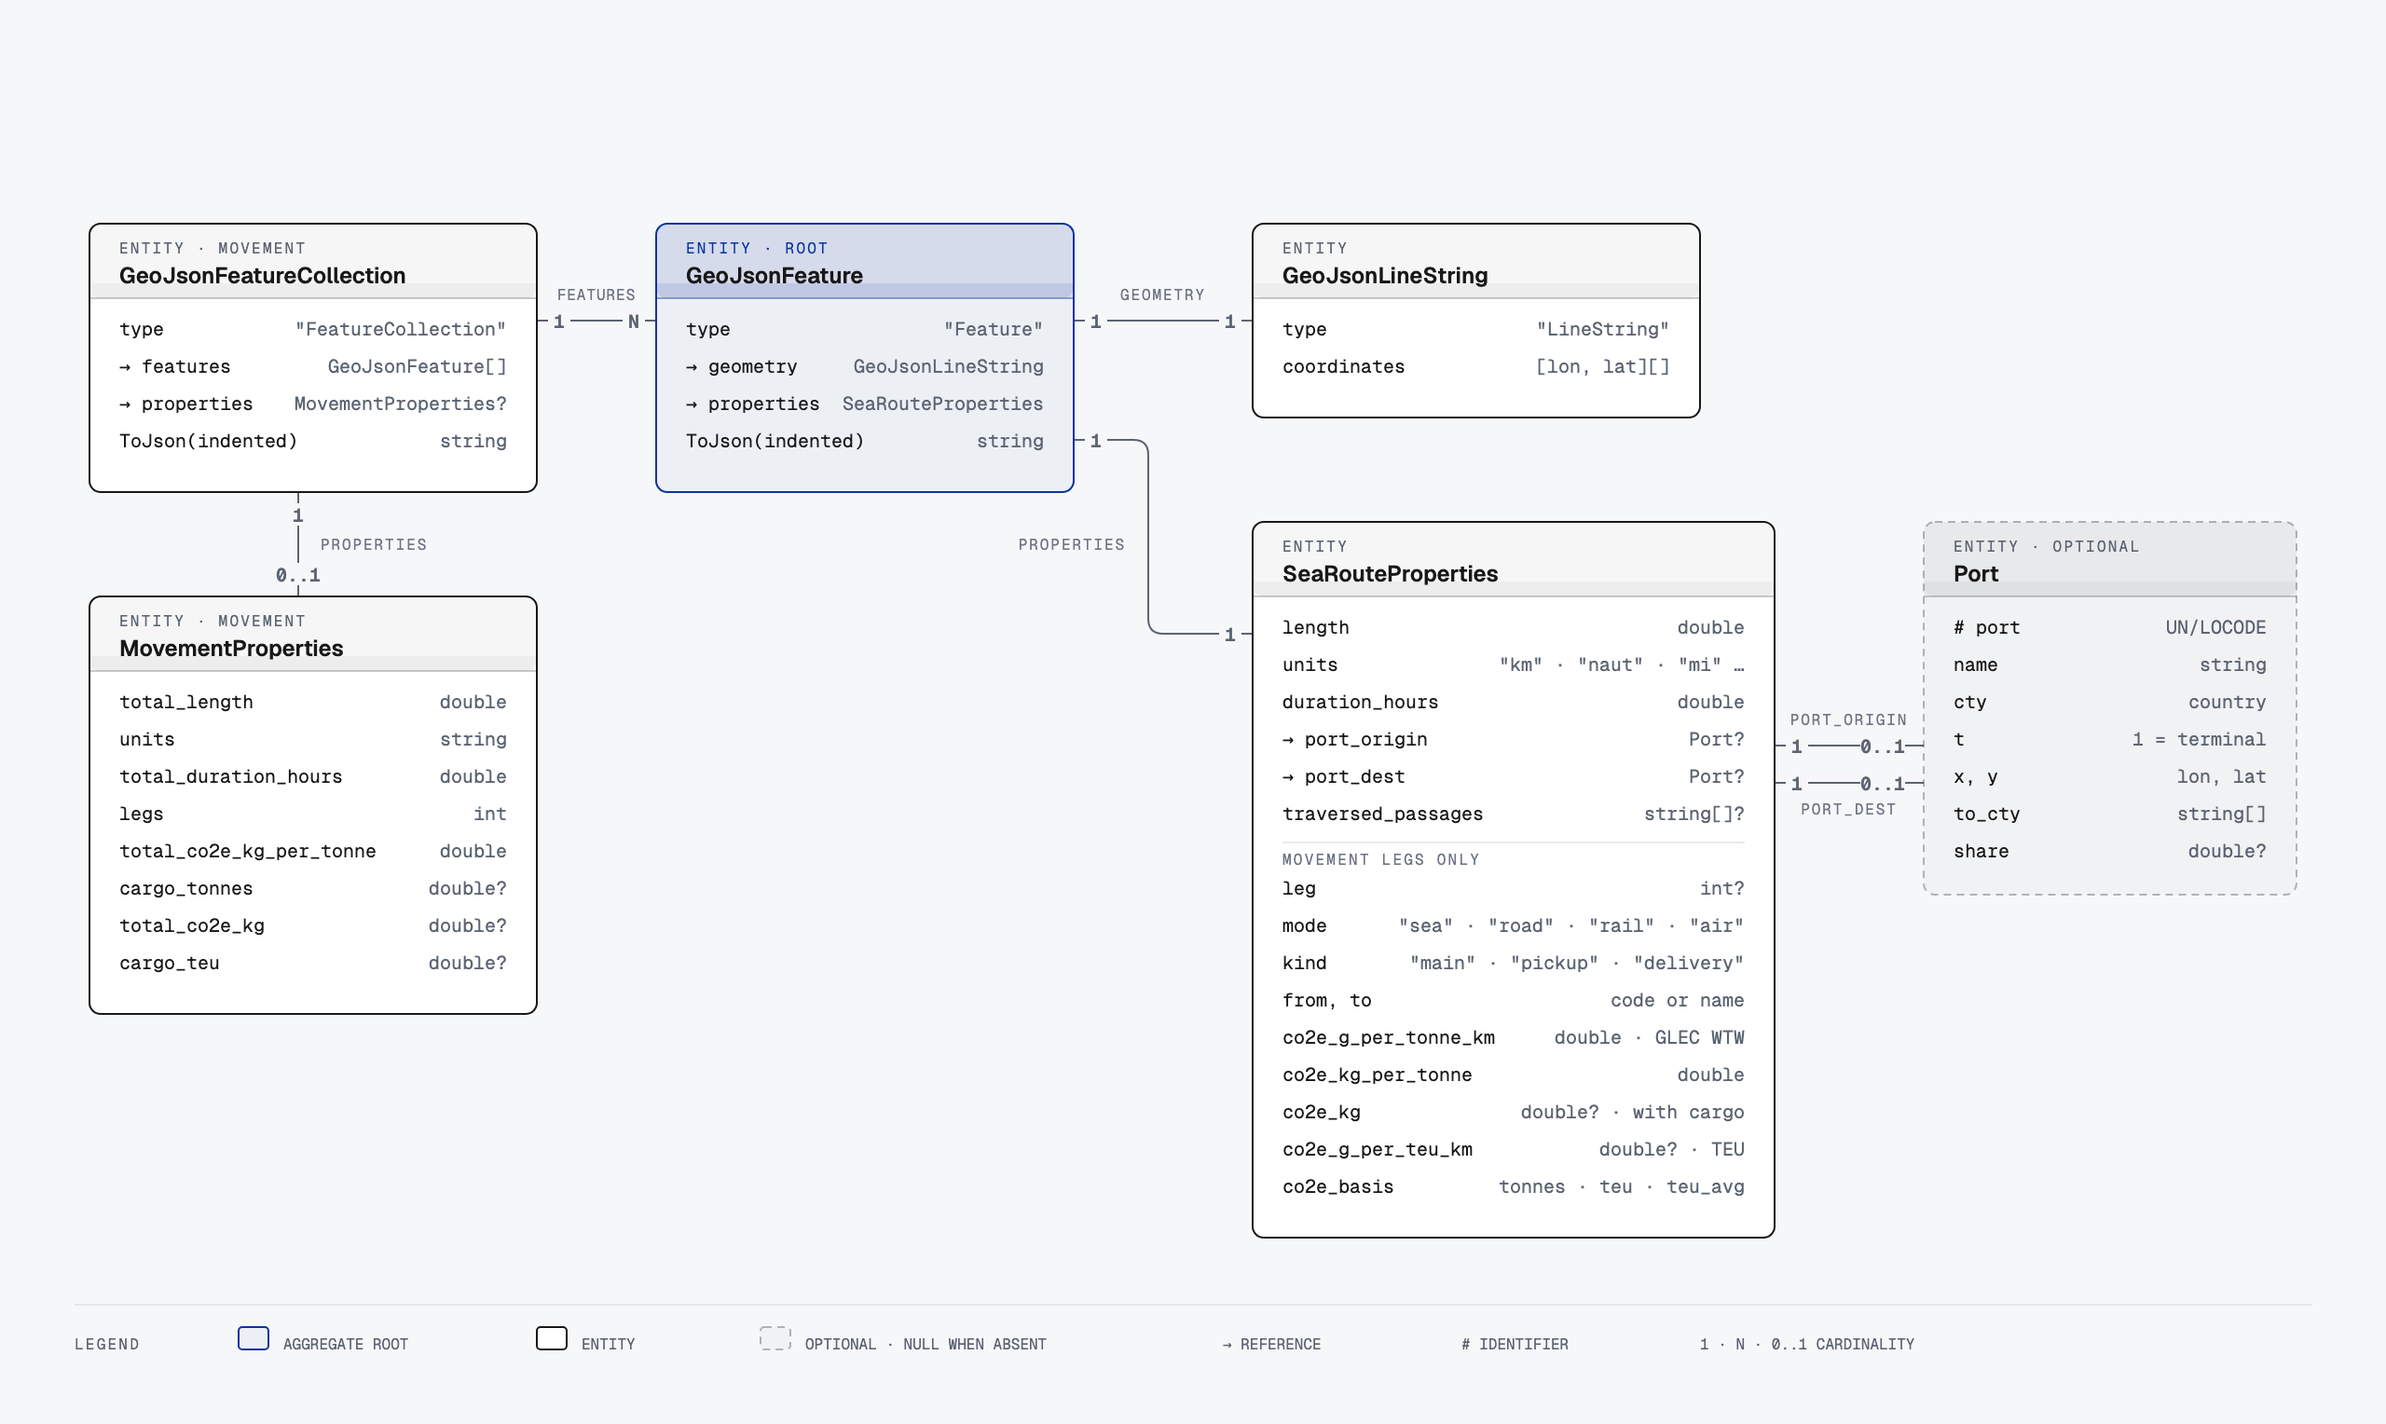
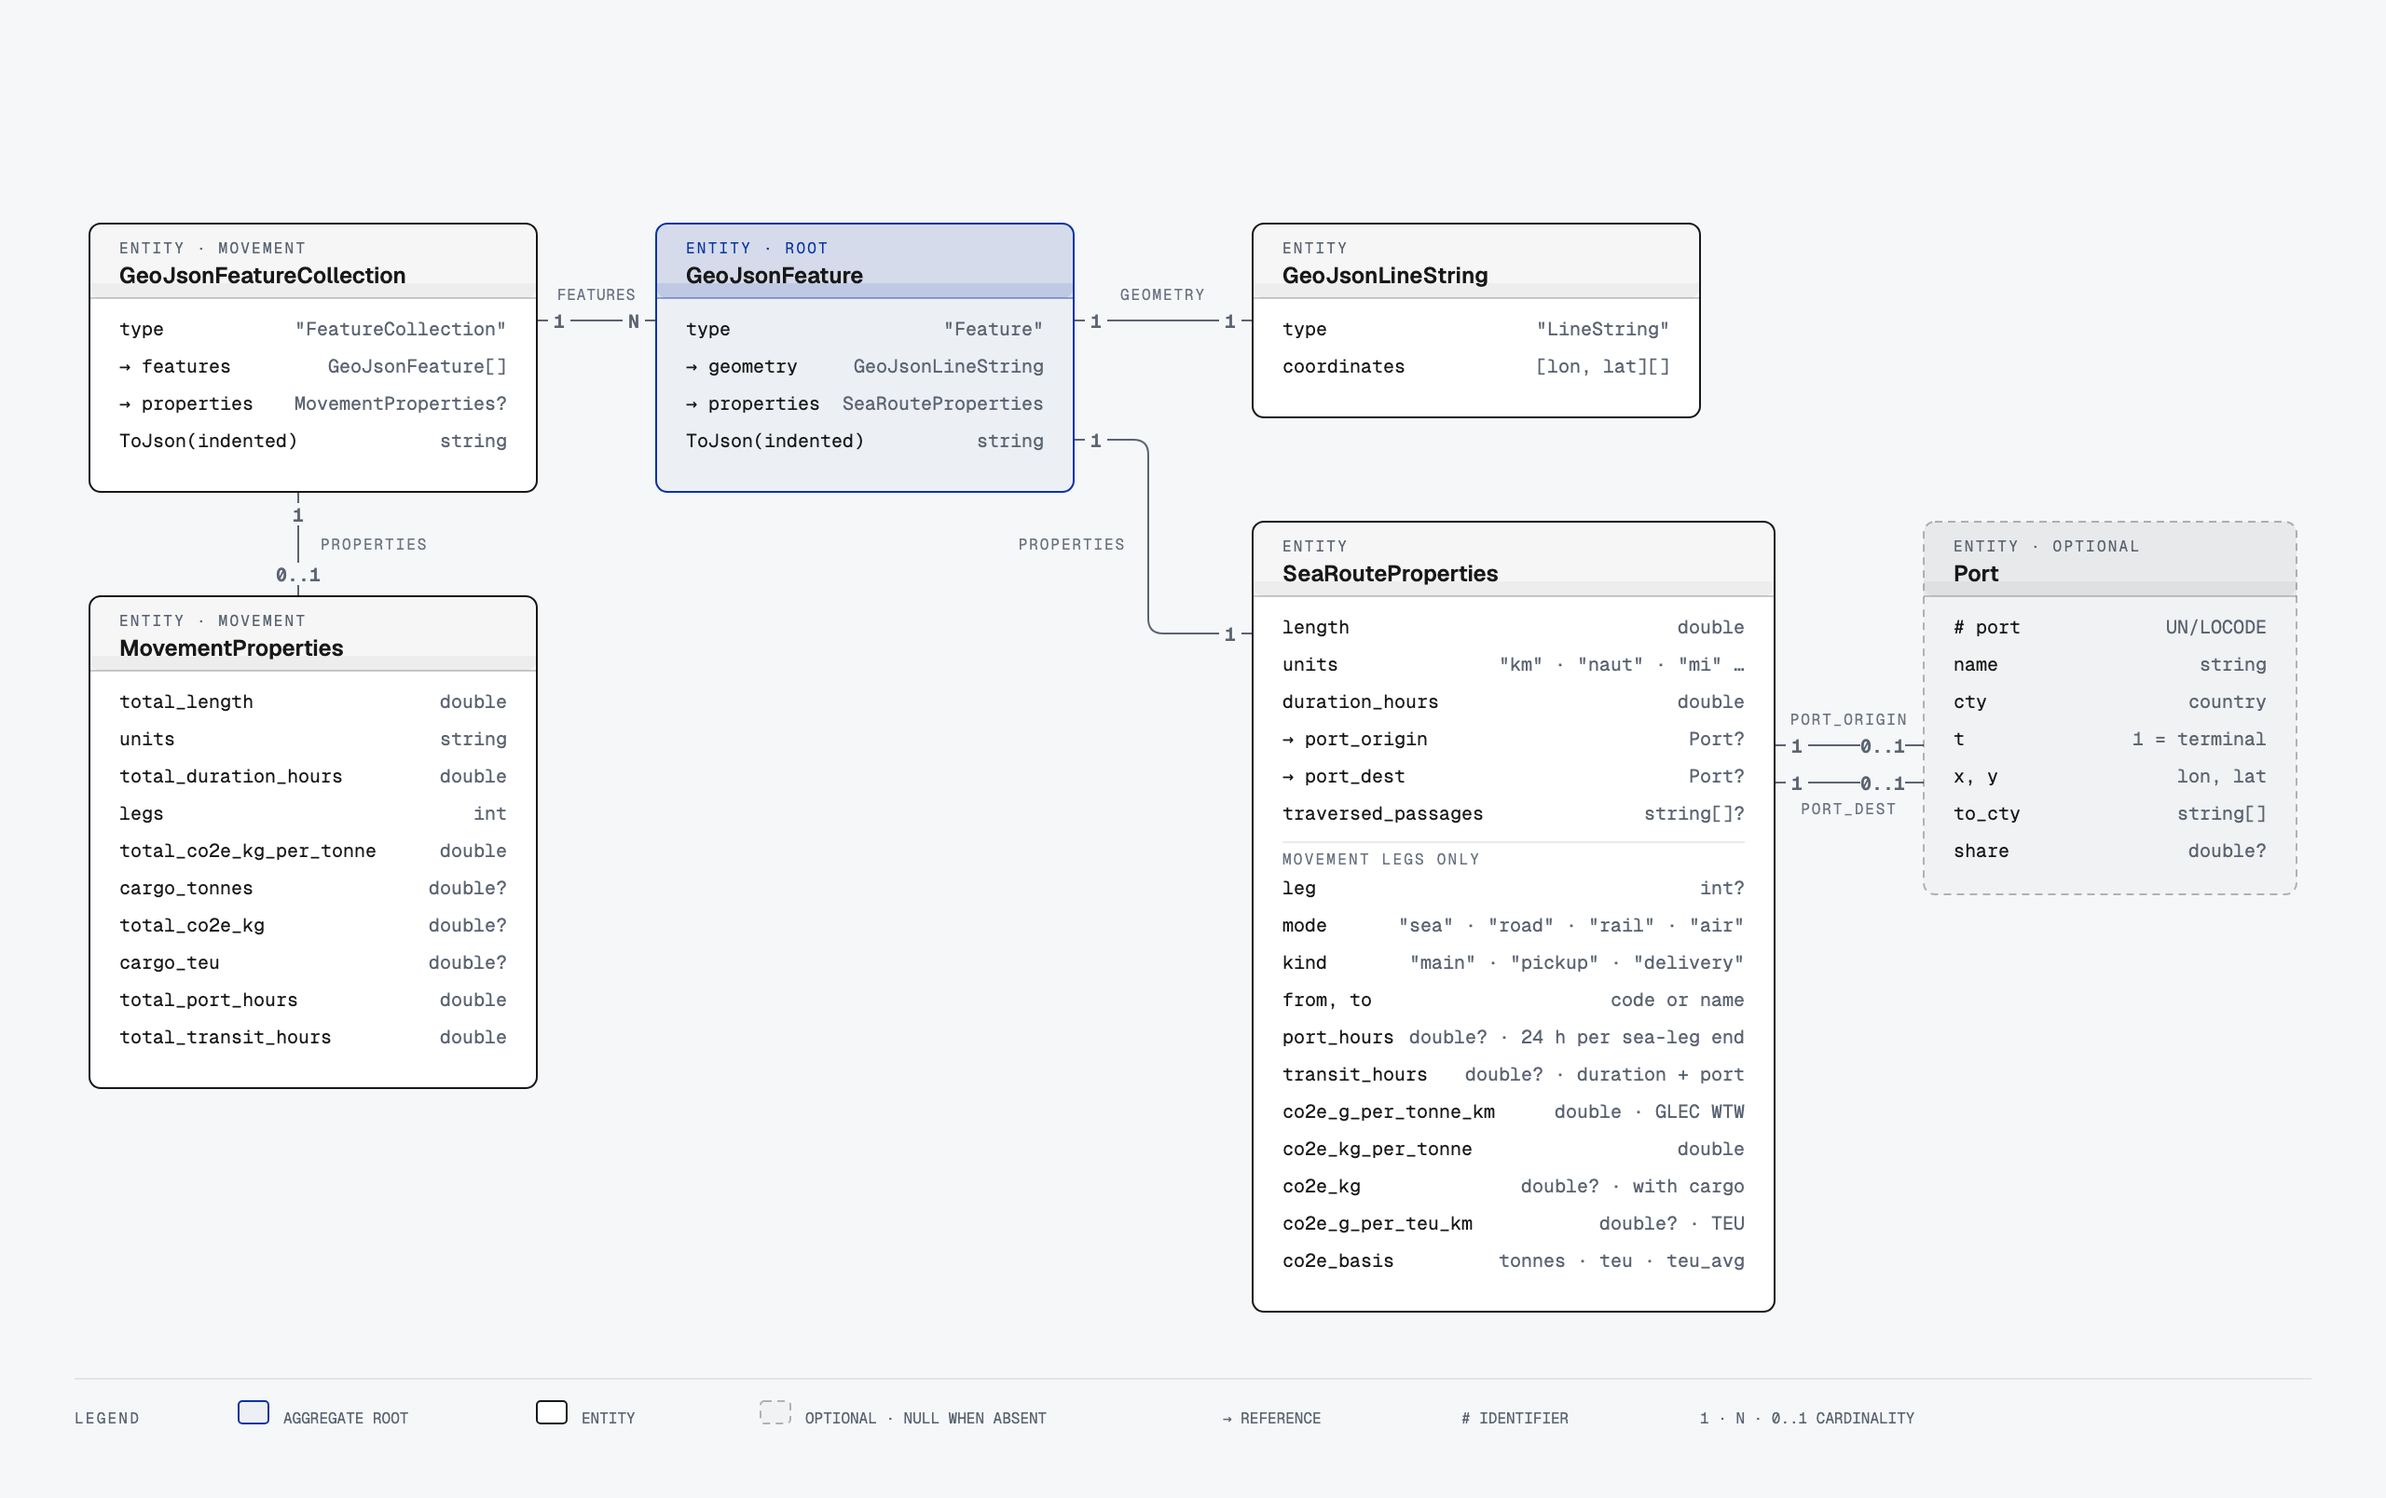
ER diagram: add port_hours, transit_hours and the transit totals

diff --git a/docs/diagrams/output-model.html b/docs/diagrams/output-model.html
@@ -53,9 +53,9 @@
     <p class="eyebrow">ER · SeaRoute.Net</p>
     <h1>What a route or movement returns</h1>
 
-    <svg viewBox="0 0 1280 764" xmlns="http://www.w3.org/2000/svg" role="img" aria-labelledby="output-model-title output-model-desc">
+    <svg viewBox="0 0 1280 804" xmlns="http://www.w3.org/2000/svg" role="img" aria-labelledby="output-model-title output-model-desc">
       <title id="output-model-title">SeaRoute.Net output model</title>
-      <desc id="output-model-desc">Entity-relationship diagram of SeaRoute.Net output: a single route is a GeoJsonFeature holding a LineString geometry and SeaRouteProperties with length, units, duration, passages, optional origin and destination ports and, for movement legs, leg number, mode, kind, from, to and CO2e figures; a movement is a GeoJsonFeatureCollection of leg features with MovementProperties totals including CO2e.</desc>
+      <desc id="output-model-desc">Entity-relationship diagram of SeaRoute.Net output: a single route is a GeoJsonFeature holding a LineString geometry and SeaRouteProperties with length, units, duration, passages, optional origin and destination ports and, for movement legs, leg number, mode, kind, from, to, port and transit hours and CO2e figures; a movement is a GeoJsonFeatureCollection of leg features with MovementProperties totals including transit hours and CO2e.</desc>
       <defs>
         <marker id="arrow" markerWidth="8" markerHeight="6" refX="7" refY="3" orient="auto"><polygon points="0 0, 8 3, 0 6" fill="#5b6472"/></marker>
       </defs>
@@ -139,8 +139,8 @@
       <text x="272" y="240" fill="#5b6472" font-size="10" font-family="'Geist Mono', monospace" text-anchor="end">string</text>
 
       <!-- Entity: MovementProperties -->
-      <rect x="48" y="320" width="240" height="224" rx="6" fill="#f6f7f8"/>
-      <rect x="48" y="320" width="240" height="224" rx="6" fill="#ffffff" stroke="#181818" stroke-width="1"/>
+      <rect x="48" y="320" width="240" height="264" rx="6" fill="#f6f7f8"/>
+      <rect x="48" y="320" width="240" height="264" rx="6" fill="#ffffff" stroke="#181818" stroke-width="1"/>
       <rect x="48" y="320" width="240" height="40" rx="6" fill="rgba(24,24,24,0.04)" stroke="none"/>
       <rect x="48" y="352" width="240" height="8" fill="rgba(24,24,24,0.04)"/>
       <line x1="48" y1="360" x2="288" y2="360" stroke="rgba(24,24,24,0.22)" stroke-width="1"/>
@@ -162,6 +162,10 @@
       <text x="272" y="500" fill="#5b6472" font-size="10" font-family="'Geist Mono', monospace" text-anchor="end">double?</text>
       <text x="64" y="520" fill="#181818" font-size="10" font-family="'Geist Mono', monospace">cargo_teu</text>
       <text x="272" y="520" fill="#5b6472" font-size="10" font-family="'Geist Mono', monospace" text-anchor="end">double?</text>
+      <text x="64" y="540" fill="#181818" font-size="10" font-family="'Geist Mono', monospace">total_port_hours</text>
+      <text x="272" y="540" fill="#5b6472" font-size="10" font-family="'Geist Mono', monospace" text-anchor="end">double</text>
+      <text x="64" y="560" fill="#181818" font-size="10" font-family="'Geist Mono', monospace">total_transit_hours</text>
+      <text x="272" y="560" fill="#5b6472" font-size="10" font-family="'Geist Mono', monospace" text-anchor="end">double</text>
 
       <!-- Entity: GeoJsonFeature (focal, aggregate root) -->
       <rect x="352" y="120" width="224" height="144" rx="6" fill="#f6f7f8"/>
@@ -194,8 +198,8 @@
       <text x="896" y="200" fill="#5b6472" font-size="10" font-family="'Geist Mono', monospace" text-anchor="end">[lon, lat][]</text>
 
       <!-- Entity: SeaRouteProperties -->
-      <rect x="672" y="280" width="280" height="384" rx="6" fill="#f6f7f8"/>
-      <rect x="672" y="280" width="280" height="384" rx="6" fill="#ffffff" stroke="#181818" stroke-width="1"/>
+      <rect x="672" y="280" width="280" height="424" rx="6" fill="#f6f7f8"/>
+      <rect x="672" y="280" width="280" height="424" rx="6" fill="#ffffff" stroke="#181818" stroke-width="1"/>
       <rect x="672" y="280" width="280" height="40" rx="6" fill="rgba(24,24,24,0.04)" stroke="none"/>
       <rect x="672" y="312" width="280" height="8" fill="rgba(24,24,24,0.04)"/>
       <line x1="672" y1="320" x2="952" y2="320" stroke="rgba(24,24,24,0.22)" stroke-width="1"/>
@@ -223,16 +227,20 @@
       <text x="936" y="520" fill="#5b6472" font-size="10" font-family="'Geist Mono', monospace" text-anchor="end">"main" · "pickup" · "delivery"</text>
       <text x="688" y="540" fill="#181818" font-size="10" font-family="'Geist Mono', monospace">from, to</text>
       <text x="936" y="540" fill="#5b6472" font-size="10" font-family="'Geist Mono', monospace" text-anchor="end">code or name</text>
-      <text x="688" y="560" fill="#181818" font-size="10" font-family="'Geist Mono', monospace">co2e_g_per_tonne_km</text>
-      <text x="936" y="560" fill="#5b6472" font-size="10" font-family="'Geist Mono', monospace" text-anchor="end">double · GLEC WTW</text>
-      <text x="688" y="580" fill="#181818" font-size="10" font-family="'Geist Mono', monospace">co2e_kg_per_tonne</text>
-      <text x="936" y="580" fill="#5b6472" font-size="10" font-family="'Geist Mono', monospace" text-anchor="end">double</text>
-      <text x="688" y="600" fill="#181818" font-size="10" font-family="'Geist Mono', monospace">co2e_kg</text>
-      <text x="936" y="600" fill="#5b6472" font-size="10" font-family="'Geist Mono', monospace" text-anchor="end">double? · with cargo</text>
-      <text x="688" y="620" fill="#181818" font-size="10" font-family="'Geist Mono', monospace">co2e_g_per_teu_km</text>
-      <text x="936" y="620" fill="#5b6472" font-size="10" font-family="'Geist Mono', monospace" text-anchor="end">double? · TEU</text>
-      <text x="688" y="640" fill="#181818" font-size="10" font-family="'Geist Mono', monospace">co2e_basis</text>
-      <text x="936" y="640" fill="#5b6472" font-size="10" font-family="'Geist Mono', monospace" text-anchor="end">tonnes · teu · teu_avg</text>
+      <text x="688" y="560" fill="#181818" font-size="10" font-family="'Geist Mono', monospace">port_hours</text>
+      <text x="936" y="560" fill="#5b6472" font-size="10" font-family="'Geist Mono', monospace" text-anchor="end">double? · 24 h per sea-leg end</text>
+      <text x="688" y="580" fill="#181818" font-size="10" font-family="'Geist Mono', monospace">transit_hours</text>
+      <text x="936" y="580" fill="#5b6472" font-size="10" font-family="'Geist Mono', monospace" text-anchor="end">double? · duration + port</text>
+      <text x="688" y="600" fill="#181818" font-size="10" font-family="'Geist Mono', monospace">co2e_g_per_tonne_km</text>
+      <text x="936" y="600" fill="#5b6472" font-size="10" font-family="'Geist Mono', monospace" text-anchor="end">double · GLEC WTW</text>
+      <text x="688" y="620" fill="#181818" font-size="10" font-family="'Geist Mono', monospace">co2e_kg_per_tonne</text>
+      <text x="936" y="620" fill="#5b6472" font-size="10" font-family="'Geist Mono', monospace" text-anchor="end">double</text>
+      <text x="688" y="640" fill="#181818" font-size="10" font-family="'Geist Mono', monospace">co2e_kg</text>
+      <text x="936" y="640" fill="#5b6472" font-size="10" font-family="'Geist Mono', monospace" text-anchor="end">double? · with cargo</text>
+      <text x="688" y="660" fill="#181818" font-size="10" font-family="'Geist Mono', monospace">co2e_g_per_teu_km</text>
+      <text x="936" y="660" fill="#5b6472" font-size="10" font-family="'Geist Mono', monospace" text-anchor="end">double? · TEU</text>
+      <text x="688" y="680" fill="#181818" font-size="10" font-family="'Geist Mono', monospace">co2e_basis</text>
+      <text x="936" y="680" fill="#5b6472" font-size="10" font-family="'Geist Mono', monospace" text-anchor="end">tonnes · teu · teu_avg</text>
 
       <!-- Entity: Port (optional, present only when ports are resolved) -->
       <rect x="1032" y="280" width="200" height="200" rx="6" fill="#f6f7f8"/>
@@ -258,17 +266,17 @@
       <text x="1216" y="460" fill="#5b6472" font-size="10" font-family="'Geist Mono', monospace" text-anchor="end">double?</text>
 
       <!-- Legend strip -->
-      <line x1="40" y1="700" x2="1240" y2="700" stroke="rgba(24,24,24,0.10)" stroke-width="0.8"/>
-      <text x="40" y="724" fill="#5b6472" font-size="8" font-family="'Geist Mono', monospace" letter-spacing="0.14em">LEGEND</text>
-      <rect x="128" y="712" width="16" height="12" rx="2" fill="rgba(10,52,161,0.04)" stroke="#0a34a1" stroke-width="1"/>
-      <text x="152" y="724" fill="#5b6472" font-size="8" font-family="'Geist Mono', monospace">AGGREGATE ROOT</text>
-      <rect x="288" y="712" width="16" height="12" rx="2" fill="#ffffff" stroke="#181818" stroke-width="1"/>
-      <text x="312" y="724" fill="#5b6472" font-size="8" font-family="'Geist Mono', monospace">ENTITY</text>
-      <rect x="408" y="712" width="16" height="12" rx="2" fill="rgba(24,24,24,0.02)" stroke="rgba(24,24,24,0.30)" stroke-width="1" stroke-dasharray="4,3"/>
-      <text x="432" y="724" fill="#5b6472" font-size="8" font-family="'Geist Mono', monospace">OPTIONAL · NULL WHEN ABSENT</text>
-      <text x="656" y="724" fill="#5b6472" font-size="8" font-family="'Geist Mono', monospace">→ REFERENCE</text>
-      <text x="784" y="724" fill="#5b6472" font-size="8" font-family="'Geist Mono', monospace"># IDENTIFIER</text>
-      <text x="912" y="724" fill="#5b6472" font-size="8" font-family="'Geist Mono', monospace">1 · N · 0..1 CARDINALITY</text>
+      <line x1="40" y1="740" x2="1240" y2="740" stroke="rgba(24,24,24,0.10)" stroke-width="0.8"/>
+      <text x="40" y="764" fill="#5b6472" font-size="8" font-family="'Geist Mono', monospace" letter-spacing="0.14em">LEGEND</text>
+      <rect x="128" y="752" width="16" height="12" rx="2" fill="rgba(10,52,161,0.04)" stroke="#0a34a1" stroke-width="1"/>
+      <text x="152" y="764" fill="#5b6472" font-size="8" font-family="'Geist Mono', monospace">AGGREGATE ROOT</text>
+      <rect x="288" y="752" width="16" height="12" rx="2" fill="#ffffff" stroke="#181818" stroke-width="1"/>
+      <text x="312" y="764" fill="#5b6472" font-size="8" font-family="'Geist Mono', monospace">ENTITY</text>
+      <rect x="408" y="752" width="16" height="12" rx="2" fill="rgba(24,24,24,0.02)" stroke="rgba(24,24,24,0.30)" stroke-width="1" stroke-dasharray="4,3"/>
+      <text x="432" y="764" fill="#5b6472" font-size="8" font-family="'Geist Mono', monospace">OPTIONAL · NULL WHEN ABSENT</text>
+      <text x="656" y="764" fill="#5b6472" font-size="8" font-family="'Geist Mono', monospace">→ REFERENCE</text>
+      <text x="784" y="764" fill="#5b6472" font-size="8" font-family="'Geist Mono', monospace"># IDENTIFIER</text>
+      <text x="912" y="764" fill="#5b6472" font-size="8" font-family="'Geist Mono', monospace">1 · N · 0..1 CARDINALITY</text>
     </svg>
   </div>
 </body>

diff --git a/README.md b/README.md
@@ -82,7 +82,7 @@ Implementation notes:
 `CalculateRoute` returns a `GeoJsonFeature`. `ToJson()` serialises it to standard GeoJSON that Leaflet, Mapbox GL, OpenLayers, deck.gl, QGIS and PostGIS all consume directly.
 
 <p align="center">
-  <img src="docs/diagrams/output-model.png" alt="SeaRoute.Net output model: a GeoJsonFeature holds a GeoJsonLineString geometry and SeaRouteProperties with length, units, duration, traversed passages, optional origin and destination Port entities and, for movement legs, leg, mode, kind, from and to; a movement is a GeoJsonFeatureCollection of leg features with MovementProperties totals" width="100%">
+  <img src="docs/diagrams/output-model.png" alt="SeaRoute.Net output model: a GeoJsonFeature holds a GeoJsonLineString geometry and SeaRouteProperties with length, units, duration, traversed passages, optional origin and destination Port entities and, for movement legs, leg, mode, kind, from, to, port and transit hours and CO2e; a movement is a GeoJsonFeatureCollection of leg features with MovementProperties totals" width="100%">
 </p>
 
 Source: [docs/diagrams/output-model.svg](docs/diagrams/output-model.svg) (vector) and [output-model.html](docs/diagrams/output-model.html).
